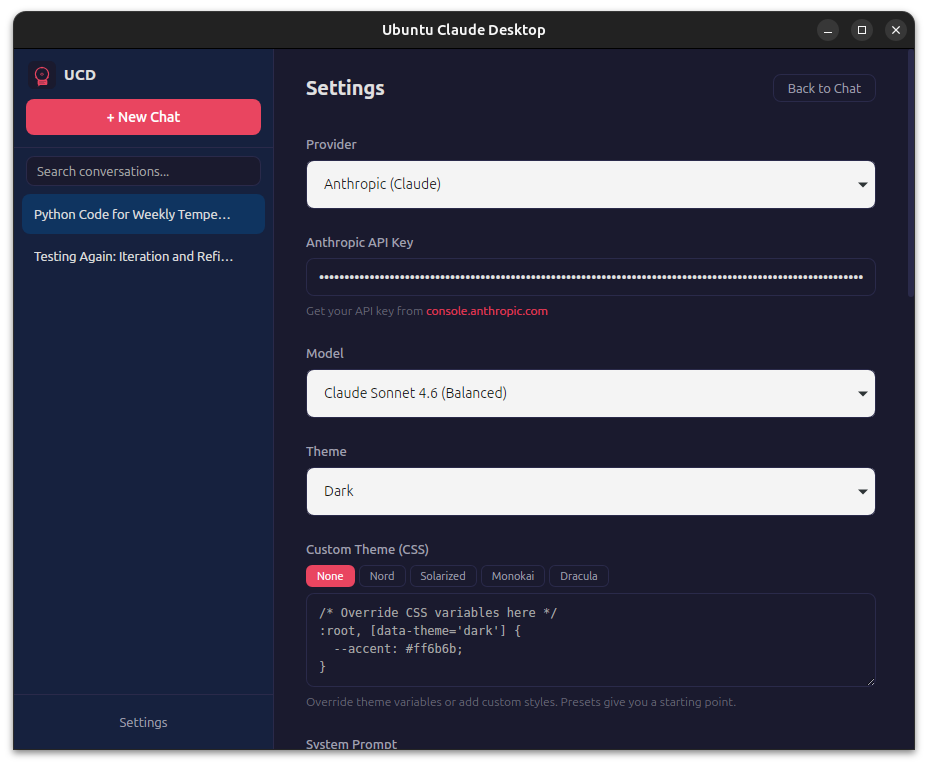
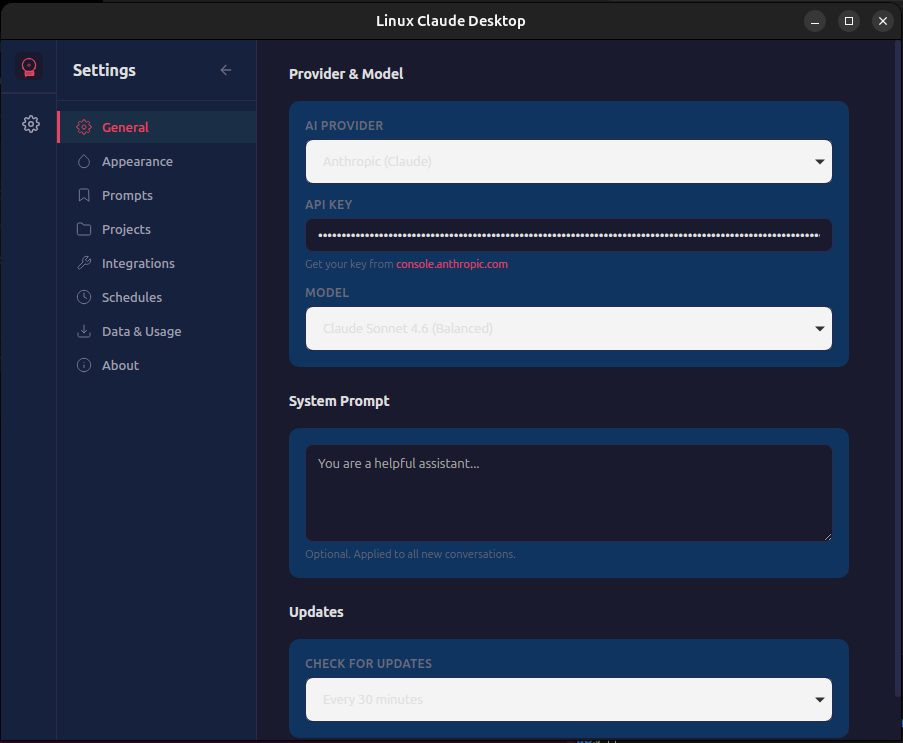
Update screenshots for Linux Claude Desktop rebrand
Replace old screenshots with new ones showing the rebranded UI,
tabbed settings, and both light and dark themes.

diff --git a/README.md b/README.md
@@ -20,29 +20,29 @@
 ## Screenshots
 
 <p align="center">
-  <img src="screenshots/empty-state.png" alt="Welcome screen" width="700" />
+  <img src="screenshots/empty-state-light.png" alt="Welcome screen (light theme)" width="700" />
 </p>
-<p align="center"><em>Clean welcome screen with quick-start instructions</em></p>
+<p align="center"><em>Welcome screen — light theme with conversation history</em></p>
 
 <p align="center">
-  <img src="screenshots/chat.png" alt="Chat with code highlighting" width="700" />
+  <img src="screenshots/empty-state-dark.png" alt="Welcome screen (dark theme)" width="700" />
 </p>
-<p align="center"><em>Streaming chat with syntax-highlighted code blocks</em></p>
+<p align="center"><em>Welcome screen — dark theme</em></p>
 
 <p align="center">
-  <img src="screenshots/sidebar.png" alt="Conversation sidebar" width="700" />
+  <img src="screenshots/sidebar.png" alt="Chat conversation" width="700" />
 </p>
-<p align="center"><em>Conversation history with search and management</em></p>
+<p align="center"><em>Chat with markdown rendering and conversation sidebar</em></p>
 
 <p align="center">
-  <img src="screenshots/settings.png" alt="Settings panel" width="700" />
+  <img src="screenshots/settings.png" alt="Settings — General" width="700" />
 </p>
-<p align="center"><em>Multi-provider settings — Anthropic, OpenAI, or Ollama</em></p>
+<p align="center"><em>Tabbed settings with auto-save — provider, model, and system prompt</em></p>
 
 <p align="center">
-  <img src="screenshots/theme.png" alt="Custom CSS themes" width="700" />
+  <img src="screenshots/themes.png" alt="Settings — Appearance" width="700" />
 </p>
-<p align="center"><em>Custom CSS themes with built-in presets</em></p>
+<p align="center"><em>Appearance settings — theme, color schemes, and custom CSS</em></p>
 
 ---
 
